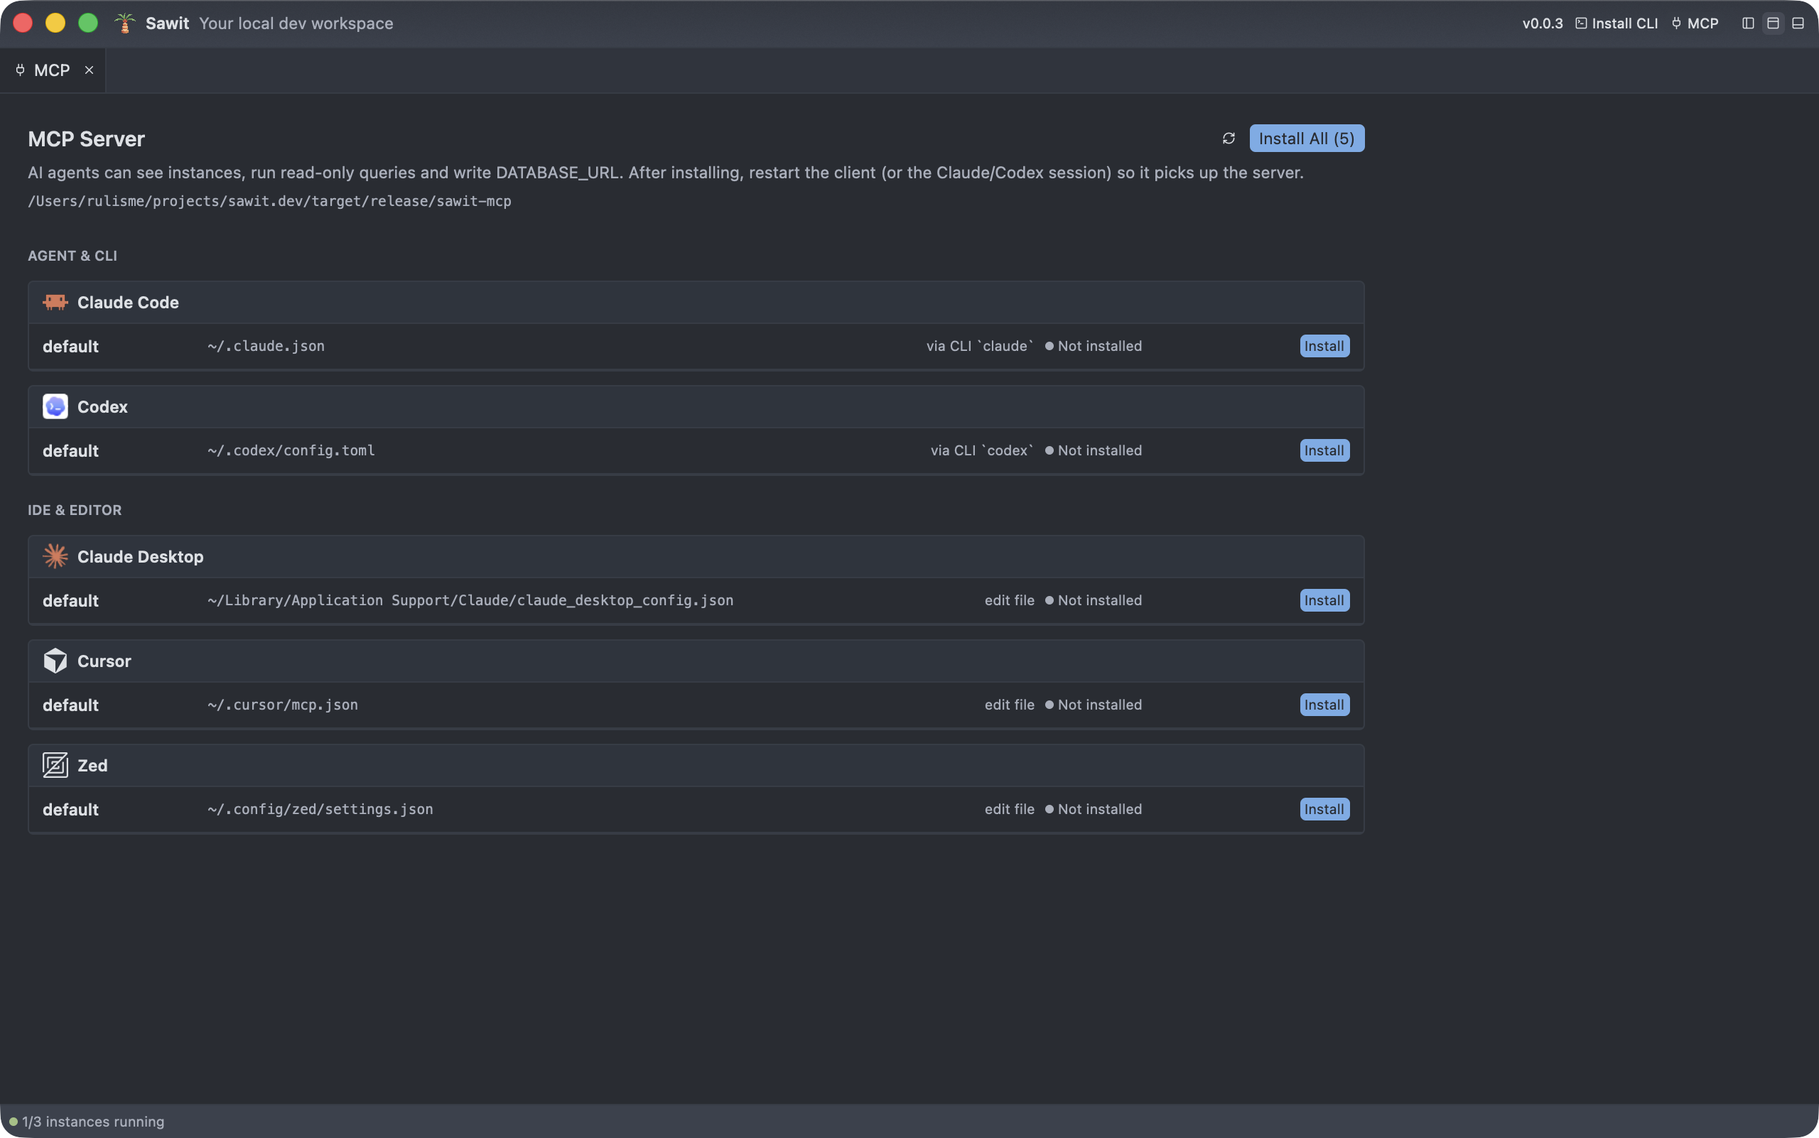
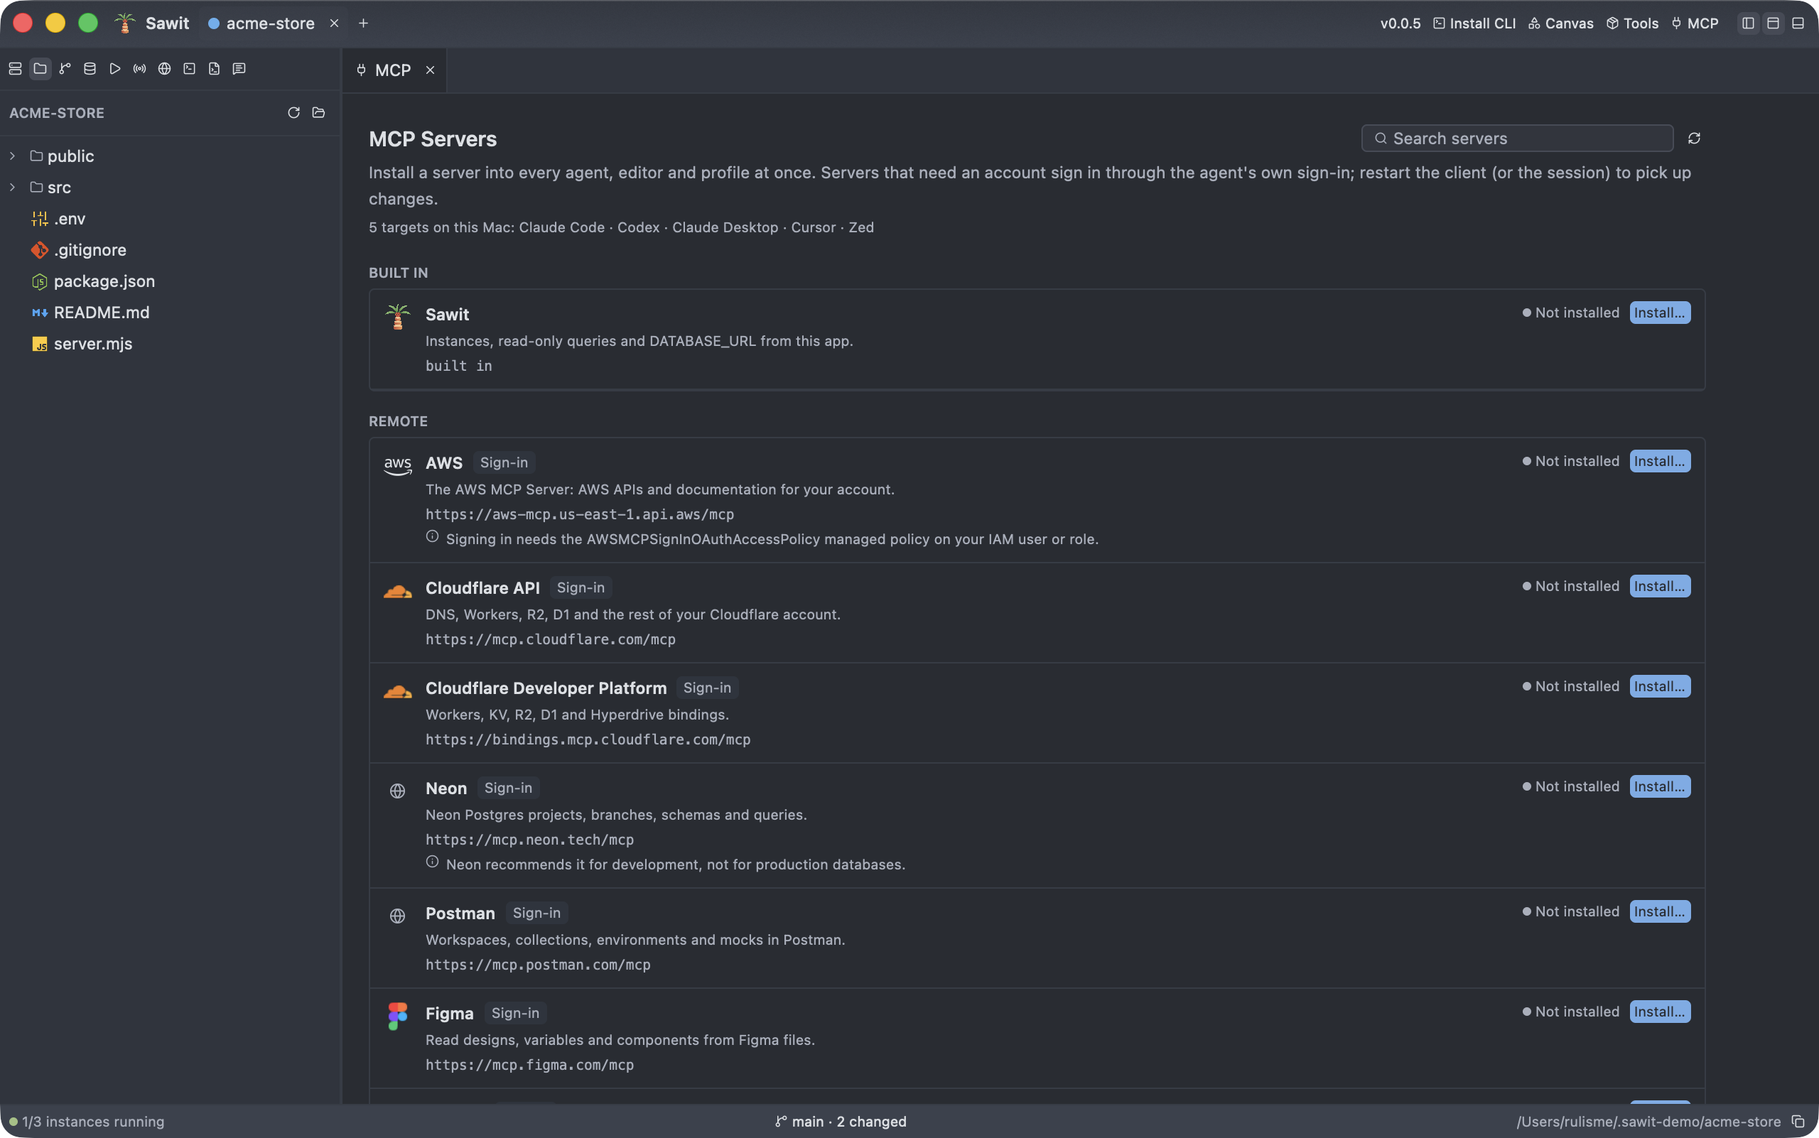
docs: update README, screenshots and demo for exports, backups, dev tools, mcp catalog and new cli words

diff --git a/README.md b/README.md
@@ -41,7 +41,7 @@
 
 Sawit is built for local development with PostgreSQL. This work usually needs Docker Desktop,
 a database client, an editor, a terminal, and a few command-line tools as separate apps. In Sawit
-they all live in a single Rust binary of about **24 MB** that uses **about 67 MB of memory** when idle.
+they all live in a single Rust binary of about **34 MB** that uses **about 67 MB of memory** when idle.
 The UI is GPU-rendered with [GPUI](https://gpui.rs), and its look follows Zed (the "One Dark" palette).
 
 <p align="center">
@@ -53,13 +53,15 @@ The UI is GPU-rendered with [GPUI](https://gpui.rs), and its look follows Zed (t
 | 🐘 **Postgres without Docker** | Use binaries from Homebrew, Postgres.app, or `PATH`, or let Sawit download PostgreSQL 16/17/18. |
 | 🛡 **Port conflicts prevented** | Before starting, Sawit checks for processes already using the port, including Docker containers. |
 | 🔍 **Safe data browsing** | The table grid uses a separate read-only connection. Passwords are stored in the macOS Keychain. |
+| 📦 **Export, back up, import** | Tables and queries to CSV or Excel, `pg_dump` backups, CSV imports, and bulk delete or set on the rows you select. |
 | 🗺 **Schema diagrams** | Tables and foreign keys drawn as a diagram, and exported as DBML or SVG. |
 | ✍ **Full editor** | Highlighting for about 200 languages, formatters, Markdown/HTML/SVG/Mermaid preview, and image, PDF, and video viewers. |
 | 🖥 **A real terminal** | Full `alacritty_terminal` emulation, fullscreen with one click, and it can run [herdr](https://herdr.dev). |
 | 📡 **Ports & network** | See and stop every dev server you started, and diagnose your internet connection step by step. |
 | 💬 **Prompt library** | Save the prompts you reuse, with tags and `{{variables}}` to fill in before copying. |
-| ⌨ **psql-style CLI** | `sawit kyzn leads "phone is null"` queries a database, `sawit list` shows everything, `sawit bakar ports` stops dev servers. |
-| 🤖 **Ready for AI agents** | The `sawit-mcp` server, installed into Claude Code, Codex, Cursor, Zed and more with one click. |
+| 🧰 **Dev tools in one click** | Install Homebrew, Bun, uv, Node.js, Rust, Claude Code, Codex and more with their official scripts, prerequisites first. |
+| ⌨ **psql-style CLI** | `sawit kyzn leads "phone is null"` queries a database, `sawit list` shows everything, `sawit bakar ports` stops dev servers, `sawit panen` exports and `sawit backup` dumps. |
+| 🤖 **Ready for AI agents** | The `sawit-mcp` server (94 tools) and a catalog of MCP servers (AWS, Cloudflare, Neon, Figma, …), installed into Claude Code, Codex, Cursor, Zed and more with one click. |
 
 ## Install
 
@@ -69,7 +71,7 @@ On an Apple Silicon Mac, run:
 curl -fsSL https://raw.githubusercontent.com/bahrulbangsawan/sawit.dev/main/scripts/install.sh | sh
 ```
 
-This installs the latest release into `/Applications` (or `~/Applications`). Add `SAWIT_VERSION=v0.0.3` before `sh`
+This installs the latest release into `/Applications` (or `~/Applications`). Add `SAWIT_VERSION=v0.0.6` before `sh`
 to pick a version. After that, the app updates itself.
 
 The script also offers to install [herdr](https://herdr.dev) (optional, for split panes in Sawit's terminal). It asks
@@ -89,8 +91,8 @@ A new window opens on a welcome screen, like Zed's: **Open Folder…**, **New Po
 **Open Terminal** on the left, and your recent folders, instances and database connections on the right.
 Picking anything lays the window out for that job. **Continue Without a Project** goes straight to the workspace.
 
-The window is split into a sidebar with six tabs (**Instances**, **Files**, **Database**, **Ports**, **Network**,
-**Prompts**), a tabbed center area, a terminal dock at the bottom, and a status bar. The status bar shows how many
+The window is split into a sidebar with ten tabs (**Instances**, **Files**, **Git**, **Database**, **Run**, **Ports**,
+**Network**, **SSH**, **Shell Config**, **Prompts**), a tabbed center area, a terminal dock at the bottom, and a status bar. The status bar shows how many
 instances are running and the project path, with a button that copies the path.
 
 ### Local PostgreSQL instances
@@ -119,7 +121,7 @@ explained. A conflict on the same address can't be forced.
 
 ### Database & table browser
 
-<img src="docs/media/table-grid.png" alt="Schema tree and table grid for shop.orders, 18,500 rows" width="100%">
+<img src="docs/media/table-grid.png" alt="Table grid for shop.orders, 18,500 rows, with row checkboxes, search, filter and the Export button" width="100%">
 
 - **Connections** from a `DATABASE_URL`, a `.env` file, or a running Sawit instance (**Connect Instances**).
   Passwords are stored in the **macOS Keychain**, never in a file.
@@ -133,6 +135,15 @@ explained. A conflict on the same address can't be forced.
 - **Paged read-only grid**: 50 rows per page, ordered by primary key so pages stay stable,
   over a separate read-only connection. The first page shows before the row count finishes.
   Counting stops after 3 seconds; after that an estimate is shown.
+- **Select rows** with their checkboxes, or every row the search and filters match, then **Delete Rows** or set a
+  column to one value. Sawit says how many rows change and asks first.
+- **Export** the table, or only the rows that match, to **CSV or Excel**. Rows are written as they arrive, so a big
+  table never has to fit in memory. Excel stops at its limit of 1,048,576 rows.
+- Right-click a connection, schema or table in the tree to **Back Up** with `pg_dump` (plain SQL, or the format
+  `pg_restore` reads; Sawit picks the newest installed PostgreSQL that can dump the server), **Import CSV…** into a
+  table, **Empty Table…**, **Refresh Materialized View**, or **Delete…** (**Delete with Dependents** adds `CASCADE`).
+- From the terminal: `sawit panen`, `sawit backup` and `sawit tanam`
+  (see [Databases, ports and instances from the terminal](#databases-ports-and-instances-from-the-terminal)).
 
 ### SQL editor
 
@@ -150,6 +161,7 @@ explained. A conflict on the same address can't be forced.
 - Click the diagram icon next to a schema to see its tables, keys and foreign keys as a diagram.
 - Zoom in and out, or switch to **DBML** to read the same schema as text (for dbdiagram.io and dbdocs).
 - Copy the DBML, or save it as `.dbml` or the diagram as `.svg`.
+- Zoomed out, each table shows just its name, wrapped at underscores so long names stay readable.
 - Diagrams are drawn by [Pele](https://pele.run), the renderer from Obsidian, running offline inside the app.
 
 ### Project code editor
@@ -194,6 +206,28 @@ explained. A conflict on the same address can't be forced.
   (herdr, vim) uses the mouse.
 - New terminals start in the project folder. Shells idle at their prompt follow when you open another project.
 
+### Dev tools
+
+<img src="docs/media/tools.png" alt="Dev Tools page: package managers such as Homebrew, nvm, pnpm, npm and uv, and runtimes such as Node.js, Bun and Deno, each with its install status, version and install command" width="100%">
+
+- Click **Tools** in the title bar for package managers (Homebrew, nvm, pnpm, npm, uv), languages and runtimes
+  (Node.js, Bun, Deno, Python, Rust), AI agents (Claude Code, Codex, OpenCode, Amp, …) and terminal apps.
+- Each tool shows whether it's installed, its version and where it lives, and the exact command that installs it.
+- **Install** one, tick several and **Install Selected**, or **Install All Missing**. Each runs its official install
+  script in your login shell, one at a time, with prerequisites first (nvm before Node.js, uv before Python).
+- Homebrew asks for your password, so it runs in the terminal. Open a new terminal tab afterwards so it sees the
+  new `PATH`.
+- From the terminal: `sawit list tools` and `sawit pasang bun uv`.
+
+### Canvas
+
+- Click **Canvas** in the title bar for an [Excalidraw](https://excalidraw.com) whiteboard, fully offline. It saves
+  by itself in the format excalidraw.com opens, and exports land in `~/Downloads`.
+- Excalidraw's **Mermaid to Excalidraw** tool (and the `canvas_add_mermaid` MCP tool) turns Mermaid into
+  **editable shapes**: boxes, arrows bound to them, and labels. Charts (pie, Gantt, XY,
+  quadrant, journey, Sankey, architecture) are placed as one image. Pele, the renderer the rest of the app uses,
+  does the conversion.
+
 ### Listening ports
 
 <img src="docs/media/ports.png" alt="Ports tab listing dev servers started with npm run dev and bun run dev, with their ports and project folders" width="100%">
@@ -225,6 +259,13 @@ explained. A conflict on the same address can't be forced.
 - Search by text or `#tag`. Favorites and the prompts you use most come first.
 - Write `{{variables}}` in a prompt, fill them in its tab, and **Fill & Copy**. Copy a prompt as is from the list.
 - Stored in `prompts.json` in Sawit's data folder.
+
+### Shell config
+
+- The **Shell Config** tab lists the shell startup files on this Mac (`~/.zshrc`, `/etc/profile`, …).
+  Click one to edit it.
+- Right-click a file to reveal it in Finder, open it in its default app, duplicate it (`.zshrc copy`, a quick
+  backup), copy its path, move it to the Trash or delete it. The Files tab's shortcuts work here too.
 
 ### Tabs & layout
 
@@ -265,6 +306,17 @@ explained. A conflict on the same address can't be forced.
 | Close Clean (tabs without changes) | <kbd>⌘</kbd><kbd>K</kbd> <kbd>U</kbd> |
 | Close All | <kbd>⌘</kbd><kbd>K</kbd> <kbd>W</kbd> |
 | Pin Tab | <kbd>⌘</kbd><kbd>K</kbd> <kbd>⇧</kbd><kbd>↩</kbd> |
+| Files / Shell Config: reveal in Finder | <kbd>⌥</kbd><kbd>⌘</kbd><kbd>R</kbd> |
+| Files / Shell Config: open in default app | <kbd>⌃</kbd><kbd>⇧</kbd><kbd>↩</kbd> |
+| Files / Shell Config: duplicate | <kbd>⌘</kbd><kbd>D</kbd> |
+| Files / Shell Config: copy path | <kbd>⌥</kbd><kbd>⌘</kbd><kbd>C</kbd> |
+| Files / Shell Config: move to Trash / delete | <kbd>⌫</kbd> / <kbd>⌥</kbd><kbd>⌘</kbd><kbd>⌫</kbd> |
+| Files: new file / new folder | <kbd>⌘</kbd><kbd>N</kbd> / <kbd>⌥</kbd><kbd>⌘</kbd><kbd>N</kbd> |
+| Files: rename | <kbd>F2</kbd> |
+| Files: cut / copy / paste | <kbd>⌘</kbd><kbd>X</kbd> / <kbd>⌘</kbd><kbd>C</kbd> / <kbd>⌘</kbd><kbd>V</kbd> |
+| Files: undo / redo | <kbd>⌘</kbd><kbd>Z</kbd> / <kbd>⇧</kbd><kbd>⌘</kbd><kbd>Z</kbd> |
+| Files: copy relative path | <kbd>⌥</kbd><kbd>⇧</kbd><kbd>⌘</kbd><kbd>C</kbd> |
+| Files: find in folder | <kbd>⌥</kbd><kbd>⇧</kbd><kbd>⌘</kbd><kbd>F</kbd> |
 | Quit | <kbd>⌘</kbd><kbd>Q</kbd> |
 
 ## The `sawit` command
@@ -274,8 +326,8 @@ Like `zed`, Sawit can be opened from the terminal. Install the command with the 
 Both create a symlink `/usr/local/bin/sawit` to the app and ask for an admin password if that folder is owned by
 root.
 
-Besides opening files, the command can query databases like `psql`, list instances, databases and ports, and stop
-dev servers or instances, all without the app (see
+Besides opening files, the command can query databases like `psql`, export, back up and import tables, list
+instances, databases, ports and dev tools, stop dev servers or instances, and install dev tools, all without the app (see
 [below](#databases-ports-and-instances-from-the-terminal)).
 
 ```bash
@@ -308,38 +360,71 @@ sawit kyzn leads                             # first 100 rows
 sawit kyzn leads "phone is null"             # filter: SELECT * FROM leads WHERE phone is null
 sawit kyzn leads "select * from leads where phone is null"   # any SQL, like psql (writes too)
 sawit list                                   # instances, databases, ports and saved connections
-sawit list db                                # or: instances, ports, connections
+sawit list db                                # or: instances, ports, connections, tools
 sawit bakar ports                            # "burn" dev servers: confirm, SIGTERM, then SIGKILL
 sawit bakar ports 3000 5173 -y               # whatever listens on these ports, without asking
 sawit bakar instances                        # stop running Sawit instances (data is kept)
+sawit panen kyzn leads leads.xlsx            # "harvest": export a table to Excel (or .csv)
+sawit panen kyzn "select * from leads where phone is null" nophone.csv   # export a query (read-only)
+sawit backup kyzn kyzn.dump                  # pg_dump the database (.dump/.backup for pg_restore, else SQL)
+sawit backup kyzn crm.leads leads.sql        # one schema or one table
+sawit tanam kyzn leads leads.csv             # "plant": load a CSV file into a table, all rows or none
+sawit list tools                             # dev tools and whether they're installed
+sawit pasang bun uv                          # "plant": install dev tools, prerequisites first (asks; -y skips)
 ```
 
 - `<db>` is looked up in this order: a Sawit instance or saved connection with that name, a database with that name in
   a saved connection, `DATABASE_URL` in `.env` in the current folder or one above it, then the databases of every
   Postgres running locally. A unique prefix also works (`kyzn` finds `kyzn_crm`). If a file or folder with that name
-  exists, it's opened instead. To open a folder named `list` or `bakar`, use `sawit ./list`.
+  exists, it's opened instead. To open a folder named after a subcommand (`list`, `bakar`, `panen`, `backup`,
+  `tanam`, `pasang`, …), use `sawit ./list`.
+- Every word has an English and an Indonesian name: `list`/`ls`, `panen`/`export`/`ekspor`,
+  `backup`/`dump`/`cadangkan`, `tanam`/`import`/`impor`, `pasang`/`install`, and for `list`: `db`/`blok`,
+  `ports`/`lahan`, `instances`/`kebun`, `connections`/`konsesi`, `tools`/`alat`/`perkakas`.
+- `panen` and `backup` ask before replacing an existing file; `-y` replaces it without asking. Without a terminal
+  they refuse instead of prompting. `panen` with SQL runs it read-only.
 - Table output goes to stdout, while the "connected to" line and timing go to stderr, so `sawit kyzn leads | less`
   stays clean. Up to 10,000 rows are printed per result.
 - `bakar ports` with no ports only takes dev servers (tools such as `npm run dev`, `vite` or `bun`). It skips databases,
   Docker, Sawit's instances and protected tools (Claude, MCP servers, language servers, Electron), the same rules as
   the `kill-dev` script. Without a terminal it asks for `-y` instead of prompting.
+- `pasang` runs each tool's official install script, the same as the app's **Tools** page. It lists what will run and
+  asks first (`-y` skips the question; without a terminal it needs `-y`). Homebrew asks for a password, so `pasang`
+  prints its command for you to run instead.
 
 ## MCP for AI agents
 
-<img src="docs/media/mcp.png" alt="MCP page listing AI clients found on this Mac with their install status and config paths" width="100%">
+<img src="docs/media/mcp.png" alt="MCP page: the built-in Sawit server and remote servers such as AWS, Cloudflare, Neon, Postman and Figma, each with its address, sign-in and install status" width="100%">
 
-The `sawit-mcp` binary (stdio) gives AI agents access to local instances and databases:
+The `sawit-mcp` binary (stdio) lets AI agents do what a person can do in Sawit. Its 94 tools work **without the app**,
+except the app-control ones, which drive the running app (`launch_app` starts it).
 
-| Tool | Purpose |
+| Area | Tools |
 |---|---|
-| `list_instances` | List instances with status, port, and `DATABASE_URL` |
-| `start_instance` / `stop_instance` | Start an instance (refused with an explanation if the port is in use) or stop it |
-| `list_connections` | List instances and saved connections usable by `describe_schema`/`query` |
-| `describe_schema` | Schemas, tables, views, and columns |
-| `query` | Run SQL, **always read-only**, up to 500 rows |
-| `write_env` | Write `DATABASE_URL` to the project's `.env` |
+| Instances | `list_instances`, `create_instance`, `start_instance` (refused with an explanation when the port is in use), `stop_instance`, `restart_instance`, `remove_instance`, `instance_logs`, `check_port`, `list_postgres_binaries` |
+| Databases | `list_connections`, `detect_databases`, `list_databases`, `create_database`, `drop_database`, `describe_schema`, `describe_table`, `query` (**always read-only**, up to 500 rows), `execute_sql` (read-write), `save_connection`, `remove_connection`, `write_env` |
+| Export, backup, import | `export_table`, `export_query` (CSV or Excel), `backup_database` (`pg_dump`), `import_csv`, `drop_relation`, `truncate_table`, `refresh_materialized_view` |
+| Diagrams | `render_mermaid` (SVG), `schema_diagram` (Mermaid, DBML or SVG) |
+| Ports | `list_ports`, `stop_processes` |
+| Network | `diagnose_network`, `ping` |
+| SSH | `list_ssh_hosts`, `add_ssh_host`, `update_ssh_host`, `remove_ssh_host`, `probe_ssh_host`, `ssh_exec` |
+| Run commands | `list_scripts`, `save_command`, `remove_command` |
+| Git | `git_status`, `git_log`, `git_diff`, `git_show`, `git_branches`, `git_stage`, `git_unstage`, `git_commit`, `git_switch` |
+| Prompts | `list_prompts`, `get_prompt`, `create_prompt`, `update_prompt`, `delete_prompt`, `fill_prompt` |
+| Files | `search_files` |
+| Dev tools | `list_dev_tools`, `install_dev_tools` |
+| MCP servers | `list_mcp_servers`, `install_mcp_server`, `uninstall_mcp_server` |
+| App control (app running) | `launch_app`, `app_state`, `app_open`, `app_focus`, `app_show_panel`, `app_layout`, `app_maximize_terminal`, `app_open_page`, `app_activate_tab`, `app_close_tab`, `app_run_list`, `app_run_script`, `app_stop_script`, `app_ssh_connect`, `app_open_table`, `app_open_sql`, `app_open_diagram`, `app_open_prompt` |
+| Terminal (app running) | `terminal_run`, `terminal_read`, `terminal_input`, `terminal_close` |
+| Canvas (app running) | `canvas_get`, `canvas_add_elements`, `canvas_add_mermaid`, `canvas_update`, `canvas_delete`, `canvas_clear`, `canvas_load`, `canvas_export` |
 
-Click **MCP** in the title bar to install it. The page finds the AI clients on this Mac: Claude Code (every
+Destructive tools say so and need an explicit confirmation: `drop_database`, `drop_relation`, `truncate_table`
+and `uninstall_mcp_server` take the name again as `confirm` (so does `remove_instance` when it deletes the data), and `install_dev_tools` needs
+`confirm: true` because it runs install scripts from the internet. Passwords never appear in a result.
+
+Click **MCP** in the title bar to install it, along with a catalog of other servers: AWS, Cloudflare, Neon, Postman,
+Figma, Mobbin, Exa and more. Servers that need an account sign in through the client's own sign-in, which the page
+can start for Claude Code and Codex. The page finds the AI clients on this Mac: Claude Code (every
 profile, including `CLAUDE_CONFIG_DIR` folders), Codex (and `CODEX_HOME` profiles), Claude Desktop, Cursor,
 Windsurf, Gemini CLI, Zed, opencode and VS Code. It installs into each with one click and shows where each config
 lives. Claude Code and Codex are changed through their own CLI when it's installed. Other configs are edited in
@@ -418,14 +503,21 @@ crates/core   sawit-core — no GPUI, tested with plain cargo test
   pgctl, control         status/initdb/start/stop/restart + log tail
   binaries, download     binary detection + download via postgresql_archive
   instances, recent      TOML registry, app paths, validation, recent folders
-  db                     profiles, DATABASE_URL/.env, Keychain, TLS, schema, paging, SQL, read-only, diagrams
+  db                     profiles, DATABASE_URL/.env, TLS, schema, paging, SQL, read-only, diagrams,
+                         bulk edits, CSV/Excel export, pg_dump backups, CSV import
+  keychain               passwords in the macOS Keychain
   mermaid                Mermaid → SVG with Pele in embedded QuickJS
   files, format, media, pdf   folder listing, safe reads, atomic saves, formatters, image & PDF rendering
   terminal               PTY + alacritty_terminal → snapshot, keyboard/mouse encoding
   network                connection diagnosis and ping
   prompts                prompt library and {{variables}}
-  mcp_clients, update, cli    MCP install into AI clients, self-update, the sawit command
-  kebun                  sawit <db> [table] ["sql"], sawit list, sawit bakar (no app needed)
+  git, github            status, diff, log graph, commits, branches; GitHub pull requests and checks
+  ssh, shell_config      saved SSH hosts and ~/.ssh/config; shell startup files
+  scripts, search        a project's run scripts and saved commands; text search in a folder
+  dev_tools              the Tools page catalog, detection and install scripts
+  mcp_clients, mcp_catalog, mcp_auth   MCP install into AI clients, the server catalog, client sign-in
+  app_control, update, cli    control socket for agents, self-update, the sawit command
+  kebun                  sawit <db>, list, bakar, panen, backup, tanam, pasang (no app needed)
   rt                     Tokio runtime on its own thread
 crates/app    sawit — GPUI UI only (draws & forwards input)
 crates/mcp    sawit-mcp — stdio MCP server on top of core
@@ -470,7 +562,7 @@ Figures for other apps are not listed because they have not been measured on the
 ## Known limitations
 
 - macOS only (depends on Keychain, `lsof`, AVPlayer, CoreGraphics, and Postgres.app).
-- The grid is read-only; data is edited through the SQL editor.
+- The grid changes rows in bulk (delete, or set one column); single cells are edited through the SQL editor.
 - Paging uses `OFFSET/LIMIT`. Tables without a primary key (and views) use physical order, which is stable
   as long as the data doesn't change.
 - With transaction-mode poolers, session settings (`SET`) are not guaranteed to persist. The table browser still only
